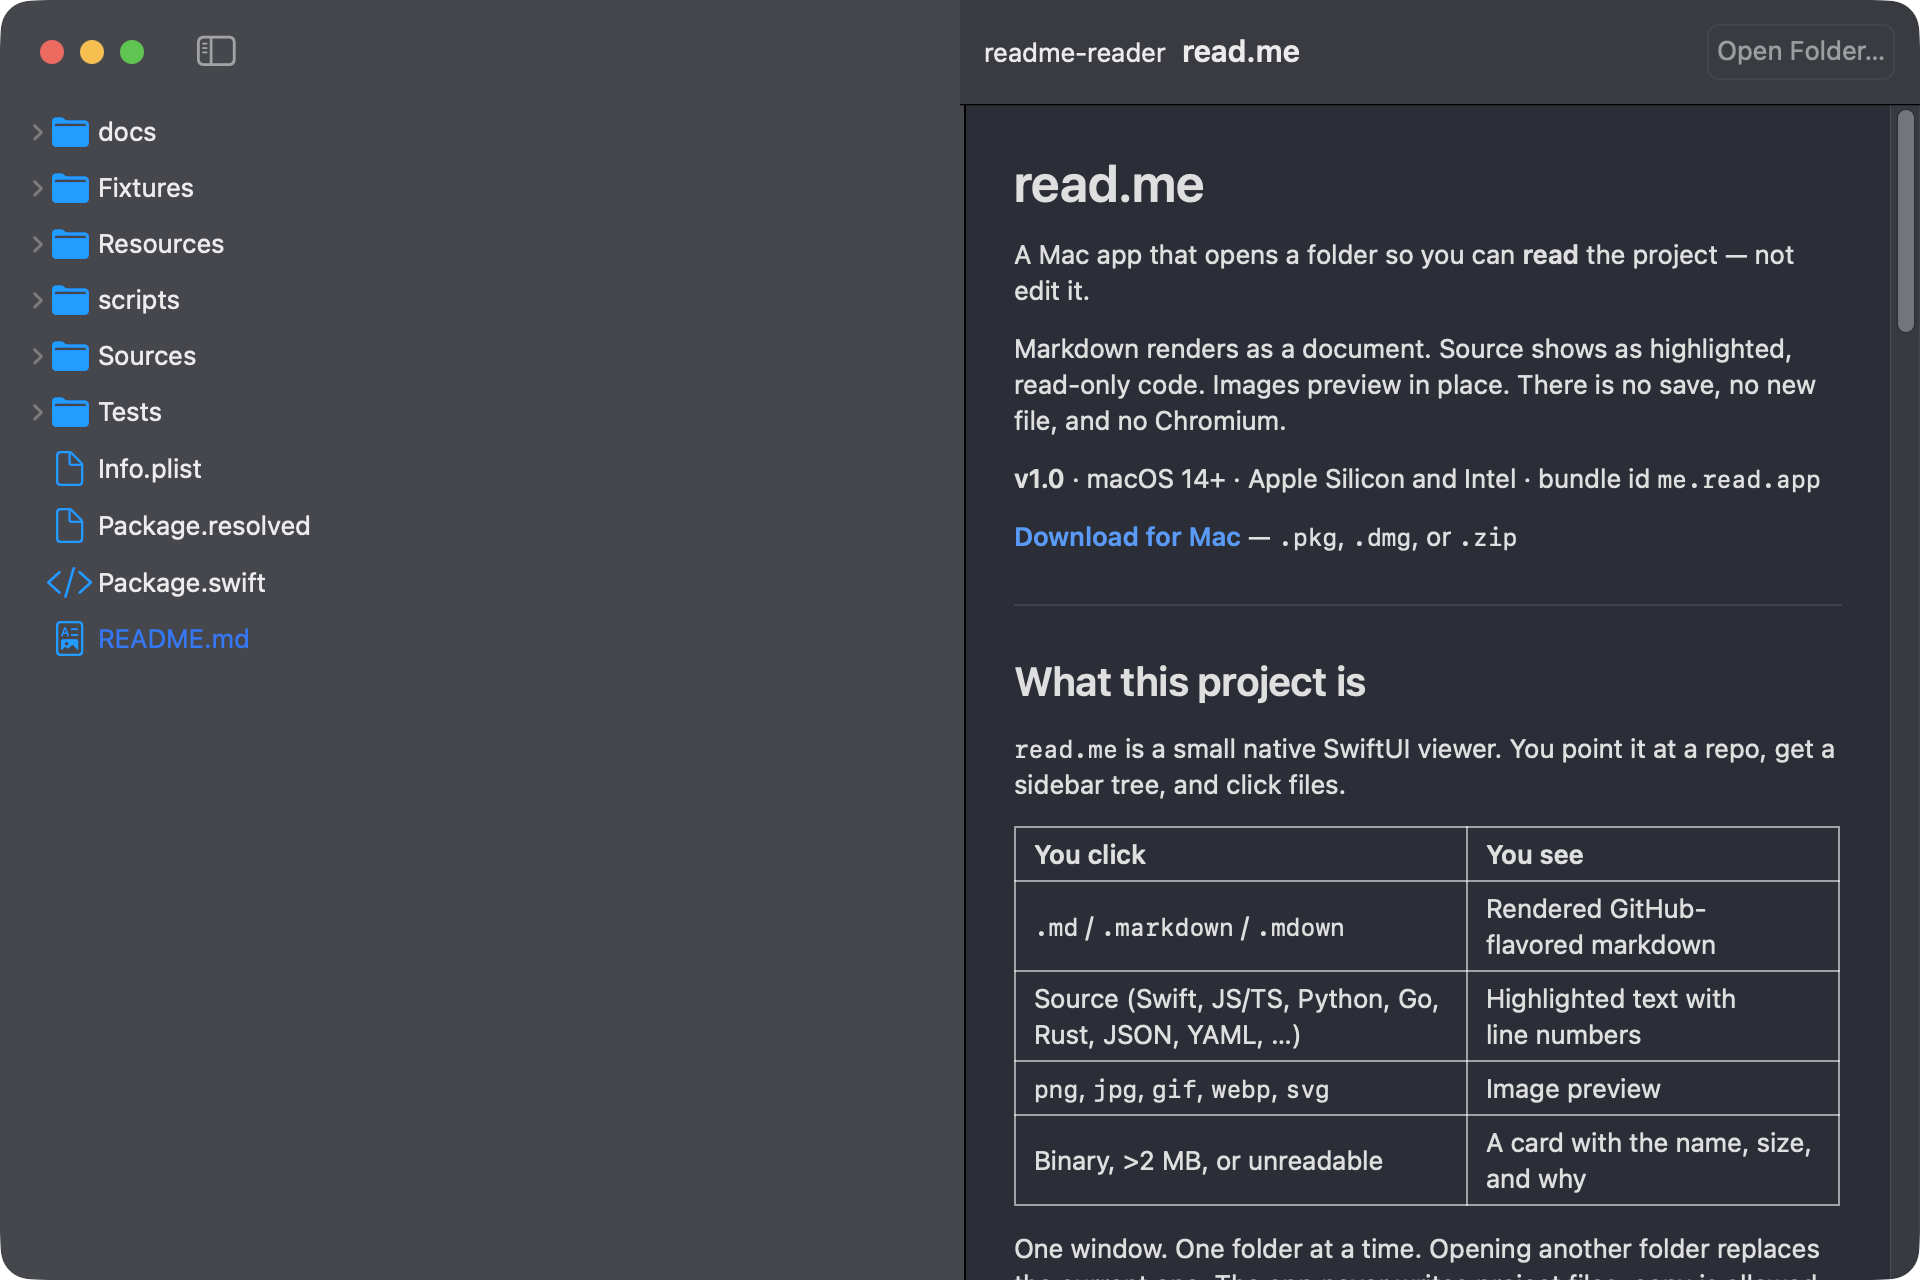
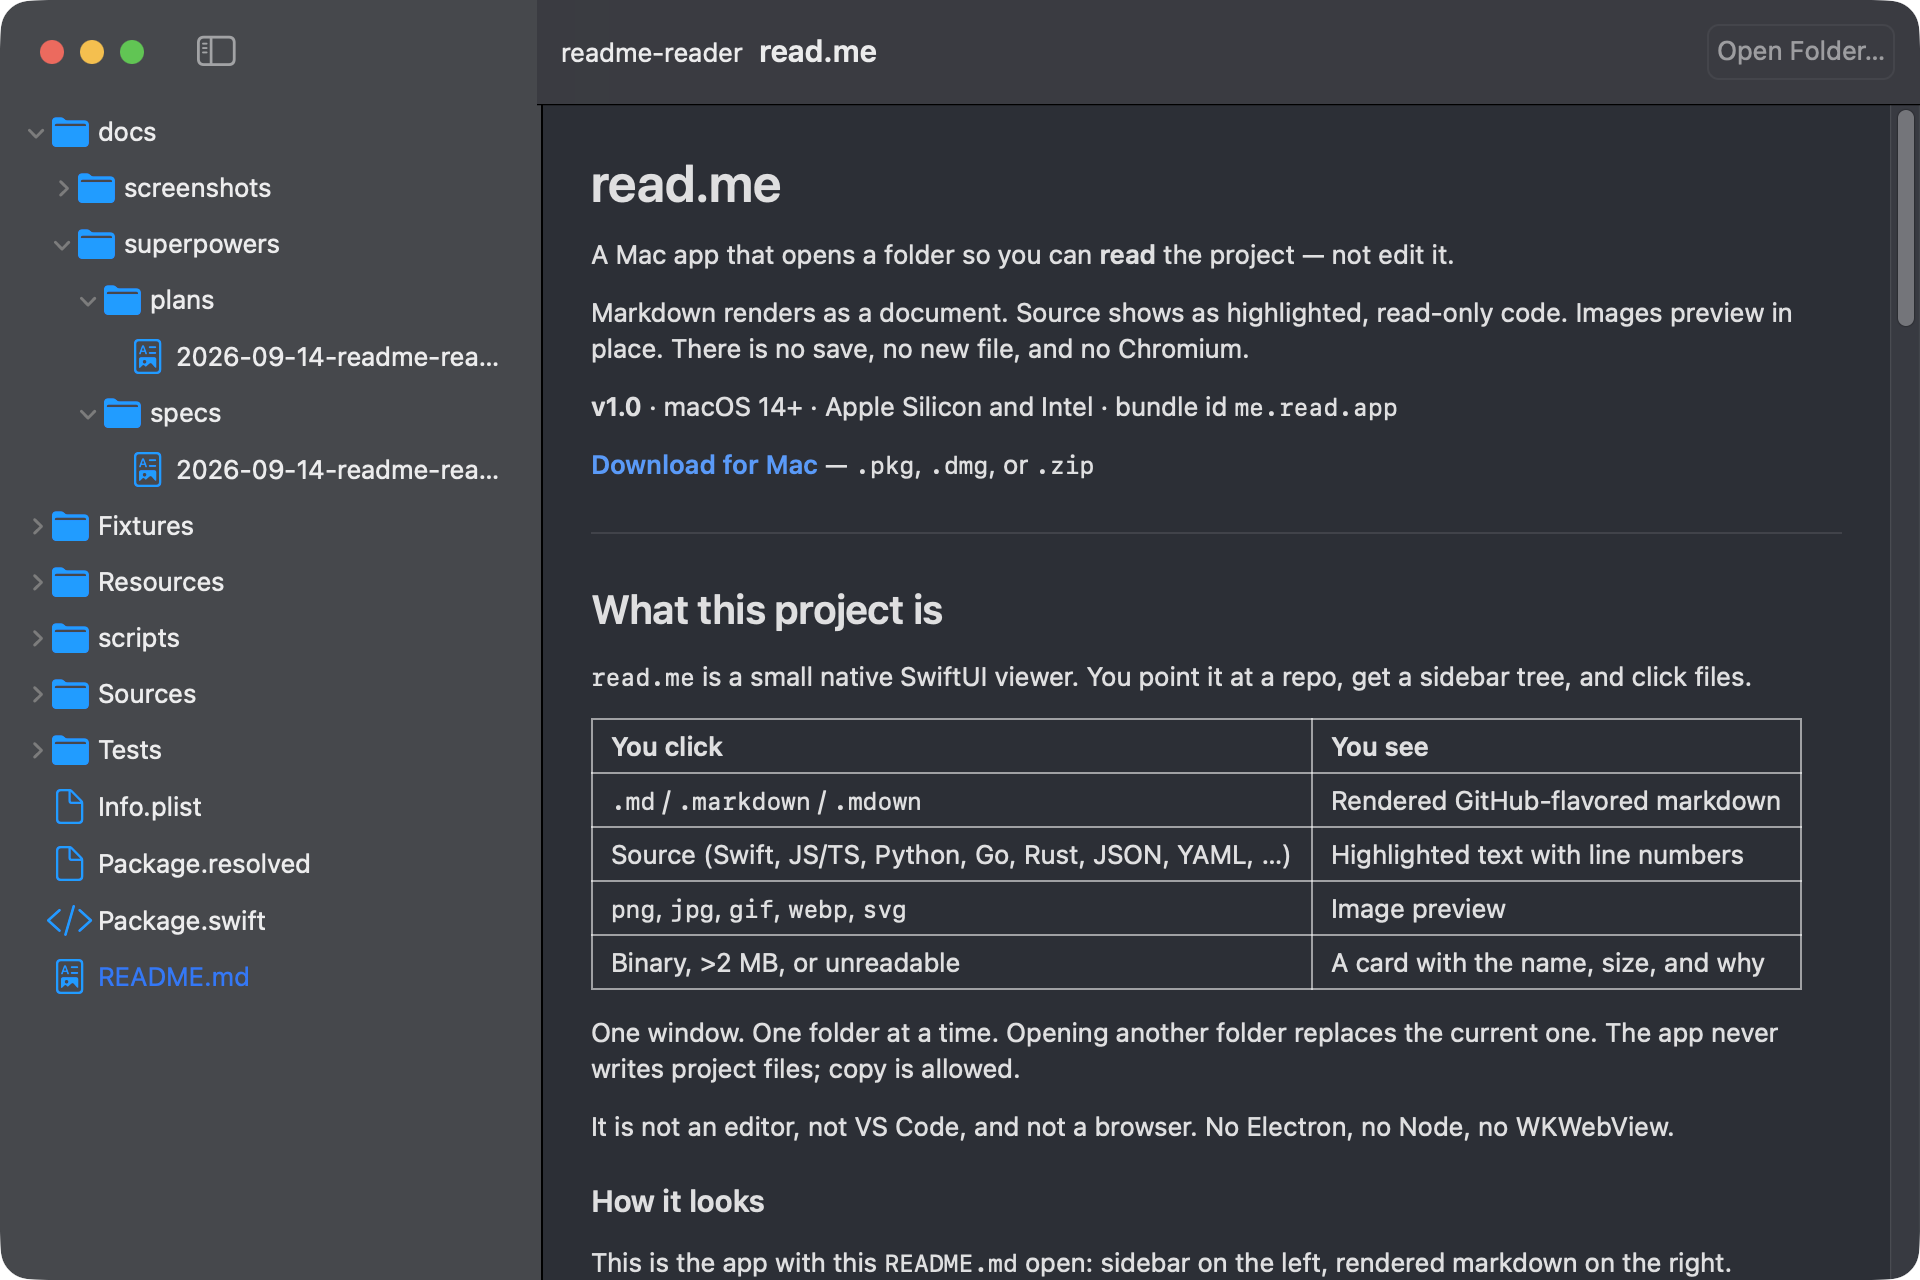
Replace the three-pane split with a two-pane tree and reader.

diff --git a/Sources/ReadMe/ContentView.swift b/Sources/ReadMe/ContentView.swift
@@ -8,52 +8,30 @@ struct ContentView: View {
     @State private var isOpening = false
 
     var body: some View {
-        NavigationSplitView {
-            if let folder = store.reader.session.folderURL {
-                FileTreeView(
-                    root: folder,
-                    showHidden: store.reader.session.showHidden,
-                    selectedURL: Binding(
-                        get: { store.reader.session.selectedURL },
-                        set: { url in
-                            store.update { controller in
-                                controller.select(url)
-                            }
-                        }
-                    )
-                )
-            } else {
-                EmptyView()
-            }
-        } detail: {
-            if store.reader.session.folderURL == nil {
-                VStack(spacing: 8) {
-                    Text("Open a folder")
-                        .font(.title2)
-                    Text("⌘O or read.me .")
-                        .foregroundStyle(.secondary)
-                }
-                .frame(maxWidth: .infinity, maxHeight: .infinity)
-            } else {
-                ViewerView(
-                    preview: store.reader.preview,
-                    folderURL: store.reader.session.folderURL,
-                    currentFileURL: store.reader.session.selectedURL,
-                    onLink: { href in
-                        let decision = store.reader.linkDecision(for: href)
-                        if case .openExternal(let url) = decision {
-                            NSWorkspace.shared.open(url)
-                        } else {
-                            store.update { controller in
-                                controller.handleLink(href)
-                            }
-                        }
+        HSplitView {
+            if store.showSidebar {
+                Group {
+                    if let folder = store.reader.session.folderURL {
+                        FileTreeView(
+                            root: folder,
+                            showHidden: store.reader.session.showHidden,
+                            selectedURL: Binding(
+                                get: { store.reader.session.selectedURL },
+                                set: { url in
+                                    store.update { controller in
+                                        controller.select(url)
+                                    }
+                                }
+                            )
+                        )
+                    } else {
+                        Color.clear
                     }
-                )
+                }
+                .frame(minWidth: 160, idealWidth: 220, maxWidth: 320)
             }
+            readerPane
         }
-        .navigationSplitViewStyle(.prominentDetail)
-        .navigationSplitViewColumnWidth(min: 160, ideal: 220, max: 320)
         .toolbar {
             ToolbarItem(placement: .navigation) {
                 Text(store.reader.session.folderURL?.lastPathComponent ?? "read.me")
@@ -75,6 +53,35 @@ struct ContentView: View {
             Text(openErrorMessage)
         }
         .focusedSceneValue(\.isOpening, $isOpening)
+    }
+
+    @ViewBuilder
+    private var readerPane: some View {
+        if store.reader.session.folderURL == nil {
+            VStack(spacing: 8) {
+                Text("Open a folder")
+                    .font(.title2)
+                Text("⌘O or read.me .")
+                    .foregroundStyle(.secondary)
+            }
+            .frame(maxWidth: .infinity, maxHeight: .infinity)
+        } else {
+            ViewerView(
+                preview: store.reader.preview,
+                folderURL: store.reader.session.folderURL,
+                currentFileURL: store.reader.session.selectedURL,
+                onLink: { href in
+                    let decision = store.reader.linkDecision(for: href)
+                    if case .openExternal(let url) = decision {
+                        NSWorkspace.shared.open(url)
+                    } else {
+                        store.update { controller in
+                            controller.handleLink(href)
+                        }
+                    }
+                }
+            )
+        }
     }
 
     private var openErrorMessage: String {

diff --git a/Sources/ReadMe/ReadMeApp.swift b/Sources/ReadMe/ReadMeApp.swift
@@ -64,8 +64,7 @@ private struct ShowHiddenAndSidebarCommands: View {
             }
         ))
         Button("Toggle Sidebar") {
-            NSApp.keyWindow?.firstResponder?
-                .tryToPerform(#selector(NSSplitViewController.toggleSidebar(_:)), with: nil)
+            store.showSidebar.toggle()
         }
         .keyboardShortcut("0", modifiers: .command)
     }

diff --git a/Sources/ReadMe/ReaderStore.swift b/Sources/ReadMe/ReaderStore.swift
@@ -6,6 +6,7 @@ final class ReaderStore: ObservableObject {
     static let shared = ReaderStore()
 
     @Published var reader = ReaderController()
+    @Published var showSidebar = true
 
     private init() {}
 
